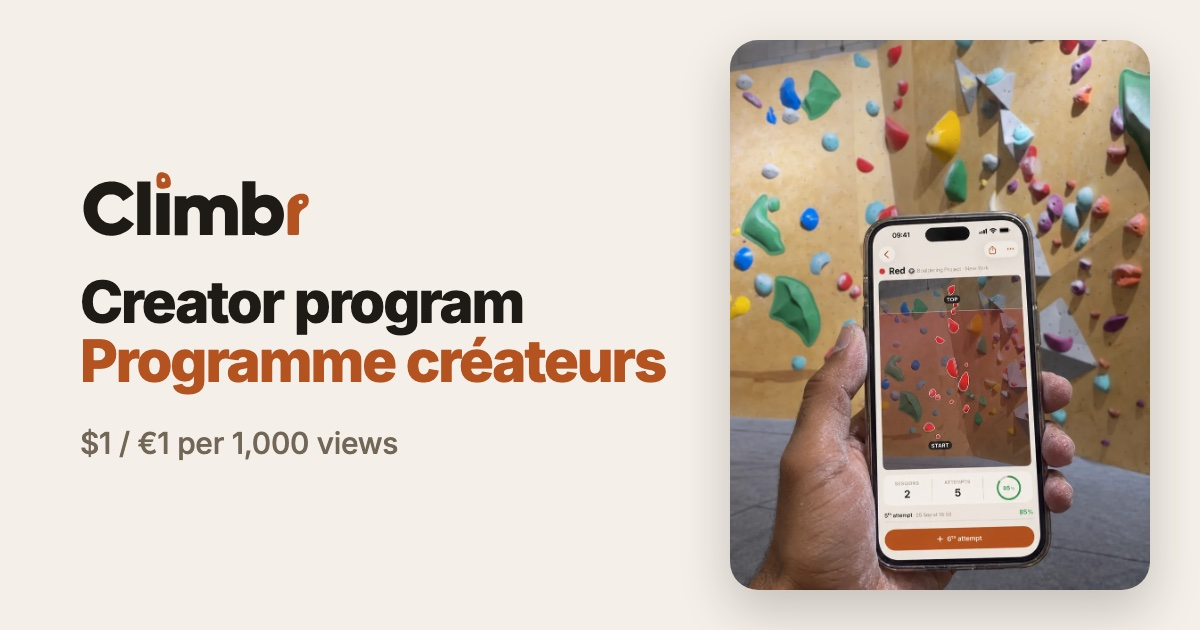
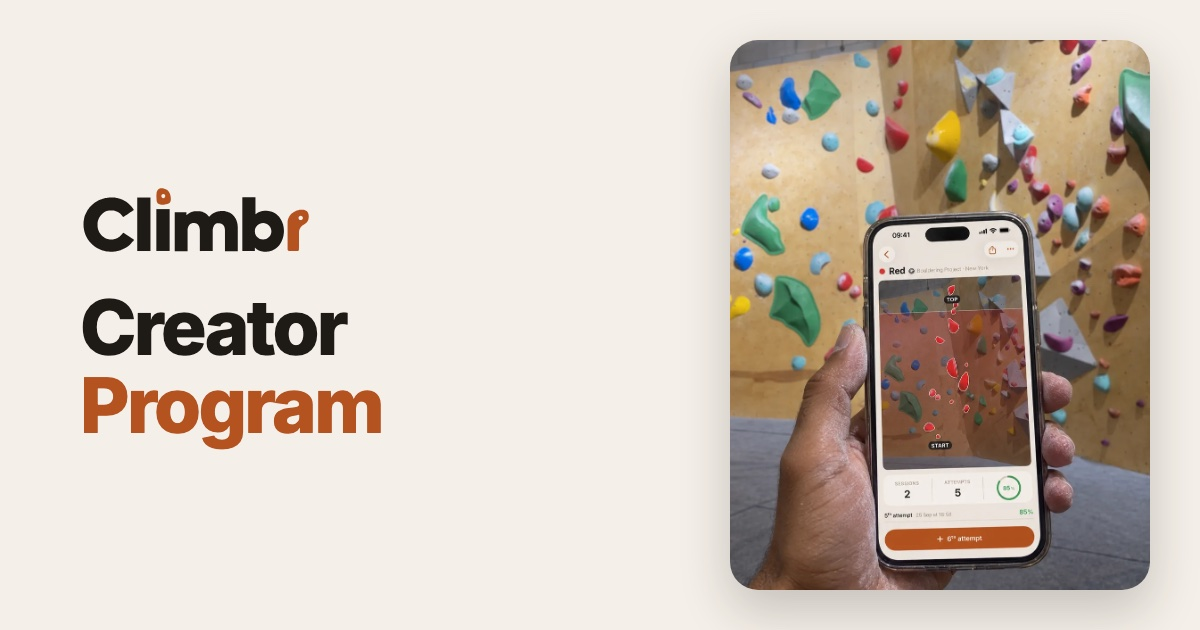
Climbr creators : aperçu « Creator Program » seul, sans le prix

Changed region(s): [[0.0617, 0.4222, 0.555, 0.7238], [0.0617, 0.2714, 0.2775, 0.4222]]

diff --git a/climbr/creators/index.html b/climbr/creators/index.html
@@ -13,12 +13,12 @@
     <meta name="theme-color" content="#F4EFE8">
 
     <!-- ⚠ L'aperçu d'un lien (Instagram, WhatsApp) est lu SANS le JavaScript :
-         `?lang=en` n'y change rien. D'où un titre bilingue et une image propre au
+         `?lang=en` n'y change rien. D'où un titre en anglais seul et une image propre au
          programme (creators/og-image.jpg, JPEG < 300 Ko pour WhatsApp). -->
     <meta property="og:type" content="website">
     <meta property="og:site_name" content="Climbr">
     <meta property="og:url" content="https://athanor-studio.io/climbr/creators/">
-    <meta property="og:title" content="Climbr · Creator program / Programme créateurs">
+    <meta property="og:title" content="Climbr · Creator Program">
     <meta property="og:description" content="Get paid to film your climbing sessions · Fais-toi payer pour filmer tes séances">
     <meta property="og:image" content="https://athanor-studio.io/climbr/creators/og-image.jpg">
     <meta property="og:image:width" content="1200">
